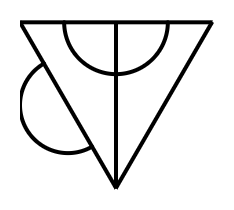
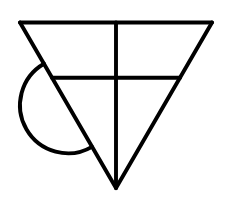
Chart: PanSALB orthography fixes and redrawn clicks and dla
Spellings checked against the nine PanSALB orthography books
(claude/pansalb-consonant-reference_2026-11-03.md in the project),
with Bandile's and Pule's calls of 3-4 November.

Xitsonga: ba [b] and b'a [ɓ]; ha [ɦ] and hha [x], no plain [h];
tsa ejective, tsha aspirated; ca ejective, cha aspirated; tshwa in
the aspirated retroflex affricate; out of [ʒ]; dla [d͡ɮ] for the
voiced lateral affricate, tlha moves to [t͡ɬʰ].
Sotho: qha out of the dental aspirated click; qhala out as an
example word; dza out (no Sotho book has dz).
Venda: swa added to [ʂ].
IPA: p̪fʰ for the aspirated labio-dental affricate; d͡ɮ added.
Cell guide redrawn to match cell 1: ba (Sotho, Tsonga, Venda), bha (Nguni).

Symbols drawn with the Card Builder's copy of the engine (engine
untouched), fitted to the chart's 234x210 box: plain clicks ca, qa,
xa now carry the lerothodi (Pule, 3 Nov); xha takes the bare lateral
click that xa used to show; dla is the tlha symbol plus uphimbo.

Claude-Session: https://claude.ai/code/session_011P8uid3bQGYUjD3t2ytqxX

diff --git a/index.html b/index.html
@@ -1177,15 +1177,15 @@ button.cc-word { cursor:pointer; border-color:#bfdbfe; background:#eff6ff; min-h
             <p class="chart-tap">Tap a symbol to hear its syllable, or a word to hear the word.</p>
             <details class="bg-details chart-key">
               <summary>How to read a cell</summary><!-- TODO: siNtu terms for the labels below -->
-              <svg class="key-svg" viewBox="0 0 360 240" role="img" aria-label="One chart cell, bha, with five labels: the ibheqe, the spelling, the languages that spell it this way, the IPA, and an example word">
+              <svg class="key-svg" viewBox="0 0 360 240" role="img" aria-label="One chart cell, ba, with five labels: the ibheqe, the spelling, the languages that spell it this way, the IPA, and an example word">
                 <defs><marker id="key-ah" viewBox="0 0 8 8" refX="7" refY="4" markerWidth="7" markerHeight="7" orient="auto"><path d="M0,0 L8,4 L0,8 z" fill="#4f46e5"/></marker></defs>
                 <rect x="6" y="6" width="140" height="228" rx="10" fill="#fff" stroke="#e5e7eb"/>
                 <rect x="41" y="14" width="70" height="70" rx="10" fill="#fff" stroke="#c7d2fe"/>
                 <image href="images/Voiced_bilabial_plosive.png" x="49" y="22" width="54" height="54"/>
-                <text x="76" y="108" text-anchor="middle" font-size="17" font-weight="700" fill="#111827">bha</text>
-                <text x="76" y="124" text-anchor="middle" font-size="9" fill="#9ca3af">(Nguni, Sotho, Tsonga)</text>
+                <text x="76" y="108" text-anchor="middle" font-size="17" font-weight="700" fill="#111827">ba</text>
+                <text x="76" y="124" text-anchor="middle" font-size="9" fill="#9ca3af">(Sotho, Tsonga, Venda)</text>
                 <text x="76" y="144" text-anchor="middle" font-size="11" fill="#6b7280">[ba]</text>
-                <text x="76" y="160" text-anchor="middle" font-size="10" fill="#4b5563">ba (Venda)</text>
+                <text x="76" y="160" text-anchor="middle" font-size="10" fill="#4b5563">bha (Nguni)</text>
                 <rect x="20" y="172" width="112" height="44" rx="8" fill="#eff6ff" stroke="#bfdbfe"/>
                 <text x="76" y="190" text-anchor="middle" font-size="11" fill="#1d4ed8" font-weight="700">bhabha &#9654;</text>
                 <text x="76" y="206" text-anchor="middle" font-size="9" fill="#4b5563">trap (Zulu)</text>
@@ -1222,7 +1222,7 @@ button.cc-word { cursor:pointer; border-color:#bfdbfe; background:#eff6ff; min-h
             <!-- Chart data: one entry per cell. m = manner, p = place, v = voiceless/voiced,
                  sp = Latin spelling by language group (kept from the old hover text),
                  words = example words (src R = recorded, M = confirmed in the 9 Oct meeting). -->
-            <script type="application/json" id="chart-data">[{"m":"Plosive","p":"Bilabial","v":"voiceless","img":"images/Aspirated_bilabial_plosive.png","ipa":"pʰ","syl":true,"snd":"audio/cues/Aspirated_bilabial_plosive_a.mp3","sp":{"NGU":"pha","SOT":"pha","TSO":"pha","VEN":"pha"},"words":[{"w":"phapha","hl":"pha","lang":"isiZulu, Sesotho","gloss":"be overenthusiastic","audio":"audio/words/phapha.mp3","src":"R"},{"w":"phalla","hl":"pha","lang":"Sesotho","gloss":"flow","audio":"audio/words/phalla.mp3","src":"R"}]},{"m":"Plosive","p":"Bilabial","v":"voiced","img":"images/Voiced_bilabial_plosive.png","ipa":"b","syl":true,"snd":"audio/cues/Voiced_bilabial_plosive_a.mp3","sp":{"NGU":"bha","SOT":"ba","TSO":"bha","VEN":"ba"},"words":[{"w":"bhabha","hl":"bha","lang":"isiZulu","gloss":"trap","audio":"audio/words/bhabha.mp3","src":"R"},{"w":"bana","hl":"ba","lang":"Sesotho","gloss":"children","audio":"audio/words/bana.mp3","src":"R"}]},{"m":"Plosive","p":"Dental","v":"voiceless","img":"images/Aspirated_dental_plosive.png","ipa":"t̪ʰ","syl":true,"snd":"audio/cues/Aspirated_dental_plosive_a.mp3","sp":{"VEN":"ṱha"},"words":[]},{"m":"Plosive","p":"Dental","v":"voiced","img":"images/Voiced_dental_plosive.png","ipa":"d̪","syl":true,"snd":"audio/cues/Voiced_dental_plosive_a.mp3","sp":{"VEN":"ḓa"},"words":[]},{"m":"Plosive","p":"Alveolar","v":"voiceless","img":"images/Aspirated_alveolar_plosive.png","ipa":"tʰ","syl":true,"snd":"audio/cues/Aspirated_alveolar_plosive_a.mp3","sp":{"NGU":"tha","SOT":"tha","TSO":"tha","VEN":"tha"},"words":[{"w":"thatha","hl":"tha","lang":"isiZulu","gloss":"take","audio":"audio/words/thatha.mp3","src":"R"},{"w":"thaba","hl":"tha","lang":"Sesotho","gloss":"mountain","audio":"audio/words/thaba.mp3","src":"R"}]},{"m":"Plosive","p":"Alveolar","v":"voiced","img":"images/Voiced_alveolar_plosive.png","ipa":"d","syl":true,"snd":"audio/cues/Voiced_alveolar_plosive_a.mp3","sp":{"NGU":"da","SOT":"da, la","TSO":"da","VEN":"da"},"words":[{"w":"idada","hl":"da","lang":"isiZulu","gloss":"duck","audio":"audio/words/idada.mp3","src":"R"}]},{"m":"Plosive","p":"Palatal","v":"voiceless","img":"images/Aspirated_palatal_plosive.png","ipa":"cʰ","syl":true,"snd":"audio/cues/Voiceless_palatal_plosive_a.mp3","sp":{"NGU":"tyha","VEN":"thya"},"words":[]},{"m":"Plosive","p":"Velar","v":"voiceless","img":"images/Aspirated_velar_plosive.png","ipa":"kʰ","syl":true,"snd":"audio/cues/Aspirated_velar_plosive_a.mp3","sp":{"NGU":"kha","SOT":"kha","TSO":"kha","VEN":"kha"},"words":[{"w":"ikhaya","hl":"kha","lang":"isiZulu","gloss":"home","audio":"audio/words/ikhaya.mp3","src":"R"}]},{"m":"Plosive","p":"Velar","v":"voiced","img":"images/Voiced_velar_plosive.png","ipa":"g","syl":true,"snd":"audio/cues/Voiced_velar_plosive_a.mp3","sp":{"NGU":"ga","TSO":"ga","VEN":"ga"},"words":[{"w":"igama","hl":"ga","lang":"isiZulu","gloss":"name","audio":"audio/words/igama.mp3","src":"R"}]},{"m":"Ejectives & Implosive","p":"Bilabial","v":"voiceless","img":"images/Bilabial_ejective_plosive.png","ipa":"pʼ","syl":true,"snd":"audio/cues/Bilabial_ejective_stop_a.mp3","sp":{"NGU":"pa","SOT":"pa","TSO":"pa","VEN":"pa"},"words":[{"w":"papadi","hl":"pa","lang":"Sesotho","gloss":"a game","audio":"audio/words/papadi.mp3","src":"R"}]},{"m":"Ejectives & Implosive","p":"Bilabial","v":"voiced","img":"images/Bilabial_implosive.png","ipa":"ɓ","syl":true,"snd":"audio/cues/Voiced_bilabial_implosive_a.mp3","sp":{"NGU":"ba","TSO":"ba"},"words":[{"w":"baba","hl":"ba","lang":"isiZulu","gloss":"be bitter","audio":"audio/words/baba.mp3","src":"R"}]},{"m":"Ejectives & Implosive","p":"Dental","v":"voiceless","img":"images/Dental_ejective_plosive.png","ipa":"t̪ʼ","syl":true,"snd":"audio/cues/Ejective_dental_stop_a.mp3","sp":{"VEN":"ṱa"},"words":[{"w":"ṱaṱa","hl":"ṱa","lang":"Tshivenda","gloss":"argue","audio":"audio/words/tata_ve.mp3","src":"R"}]},{"m":"Ejectives & Implosive","p":"Alveolar","v":"voiceless","img":"images/Alveolar_ejective_plosive.png","ipa":"tʼ","syl":true,"snd":"audio/cues/Alveolar_ejective_stop_a.mp3","sp":{"NGU":"ta","SOT":"ta","TSO":"ta","VEN":"ta"},"words":[{"w":"tata","hl":"ta","lang":"isiXhosa","gloss":"father","audio":"audio/words/tata_xh.mp3","src":"R"}]},{"m":"Ejectives & Implosive","p":"Velar","v":"voiceless","img":"images/Velar_ejective_plosive.png","ipa":"kʼ","syl":true,"snd":"audio/cues/Velar_ejective_stop_a.mp3","sp":{"NGU":"ka","SOT":"ka","TSO":"ka","VEN":"ka"},"words":[{"w":"ikati","hl":"ka","lang":"isiZulu","gloss":"cat","audio":"audio/words/ikati.mp3","src":"R"},{"w":"kae","hl":"ka","lang":"Sesotho","gloss":"where?","audio":"audio/words/kae.mp3","src":"R"}]},{"m":"Fricative","p":"Bilabial","v":"voiceless","img":"images/Voiceless_bilabial_fricative.png","ipa":"ɸ","syl":true,"snd":"audio/cues/Voiceless_bilabial_fricative_a.mp3","sp":{"VEN":"fha"},"words":[]},{"m":"Fricative","p":"Bilabial","v":"voiced","img":"images/Voiced_bilabial_fricative.png","ipa":"β","syl":true,"snd":"audio/cues/Voiced_bilabial_fricative_a.mp3","sp":{"VEN":"vha"},"words":[]},{"m":"Fricative","p":"Labio-dental","v":"voiceless","img":"images/Voiceless_labiodental_fricative.png","ipa":"f","syl":true,"snd":"audio/cues/Voiceless_labiodental_fricative_a.mp3","sp":{"NGU":"fa","SOT":"fa","TSO":"fa","VEN":"fa"},"words":[{"w":"ukufa","hl":"fa","lang":"isiZulu","gloss":"die","audio":"audio/words/ukufa.mp3","src":"R"}]},{"m":"Fricative","p":"Labio-dental","v":"voiced","img":"images/Voiced_labiodental_fricative.png","ipa":"v","syl":true,"snd":"audio/cues/Voiced_labiodental_fricative_a.mp3","sp":{"NGU":"va","SOT":"va","VEN":"va"},"words":[{"w":"vala","hl":"va","lang":"isiZulu","gloss":"close","audio":"audio/words/vala.mp3","src":"R"}]},{"m":"Fricative","p":"Alveolar","v":"voiceless","img":"images/Voiceless_alveolar_fricative.png","ipa":"s","syl":true,"snd":"audio/cues/Voiceless_alveolar_fricative_a.mp3","sp":{"NGU":"sa","SOT":"sa","TSO":"sa","VEN":"sa"},"words":[{"w":"sapha","hl":"sa","lang":"isiXhosa","gloss":"hand over","audio":"audio/words/sapha.mp3","src":"R"},{"w":"sala","hl":"sa","lang":"Sesotho","gloss":"stay","audio":"audio/words/sala.mp3","src":"R"}]},{"m":"Fricative","p":"Alveolar","v":"voiced","img":"images/Voiced_alveolar_fricative.png","ipa":"z","syl":true,"snd":"audio/cues/Voiced_alveolar_fricative_a.mp3","sp":{"NGU":"za","SOT":"za","TSO":"za","VEN":"za"},"words":[{"w":"zala","hl":"za","lang":"isiZulu","gloss":"give birth","audio":"audio/words/zala.mp3","src":"R"}]},{"m":"Fricative","p":"Post-alveolar","v":"voiceless","img":"images/Voiceless_postalveolar_fricative.png","ipa":"ʃ","syl":true,"snd":"audio/cues/Voiceless_post-alveolar_fricative_a.mp3","sp":{"NGU":"sha","SOT":"sha","TSO":"xa","VEN":"sha"},"words":[{"w":"xava","hl":"xa","lang":"Xitsonga","gloss":"buy","audio":"audio/words/xava.mp3","src":"R"},{"w":"shaya","hl":"sha","lang":"isiZulu","gloss":"hit","audio":"audio/words/shaya.mp3","src":"R"},{"w":"shapa","hl":"sha","lang":"Sesotho","gloss":"hit","audio":"audio/words/shapa.mp3","src":"R"}]},{"m":"Fricative","p":"Post-alveolar","v":"voiced","img":"images/Voiced_postalveolar_fricative.png","ipa":"ʒ","syl":true,"snd":"audio/cues/Voiced_post-alveolar_fricative_a.mp3","sp":{"SOT":"ja","TSO":"ja","VEN":"zha"},"words":[{"w":"jala","hl":"ja","lang":"Sesotho","gloss":"plant, sow","audio":"audio/words/jala.mp3","src":"R"}]},{"m":"Fricative","p":"Retroflex","v":"voiceless","img":"images/Voiceless_retroflex_fricative.png","ipa":"ʂ","syl":true,"snd":"audio/cues/Voiceless_retroflex_fricative_a.mp3","sp":{"TSO":"swa"},"words":[]},{"m":"Fricative","p":"Velar","v":"voiceless","img":"images/Voiceless_velar_fricative.png","ipa":"x","syl":true,"snd":"audio/cues/Voiceless_velar_fricative_a.mp3","sp":{"NGU":"rha","SOT":"ga"},"words":[]},{"m":"Fricative","p":"Velar","v":"voiced","img":"images/Voiced_velar_fricative.png","ipa":"ɣ","syl":true,"snd":"audio/cues/Voiced_velar_fricative_a.mp3","sp":{"NGU":"gra","VEN":"xa"},"words":[]},{"m":"Fricative","p":"Glottal","v":"voiceless","img":"images/Voiceless_glottal_fricative.png","ipa":"h","syl":true,"snd":"audio/cues/Voiceless_glottal_fricative_a.mp3","sp":{"NGU":"ha","SOT":"ha","TSO":"ha","VEN":"ha"},"words":[{"w":"hamba","hl":"ha","lang":"isiZulu","gloss":"go","audio":"audio/words/hamba.mp3","src":"R"},{"w":"hana","hl":"ha","lang":"Sesotho","gloss":"refuse","audio":"audio/words/hana.mp3","src":"R"}]},{"m":"Fricative","p":"Glottal","v":"voiced","img":"images/Voiced_glottal_fricative.png","ipa":"ɦ","syl":true,"snd":"audio/cues/Voiced_glottal_fricative_a.mp3","sp":{"NGU":"hha","SOT":"ha","TSO":"hha"},"words":[{"w":"hhayi","hl":"hha","lang":"isiZulu","gloss":"no","audio":"audio/words/hhayi.mp3","src":"R"}]},{"m":"Fricative","p":"Lateral","v":"voiceless","img":"images/Voiceless_lateral_fricative.png","ipa":"ɬ","syl":true,"snd":"audio/cues/Voiceless_lateral_fricative_a.mp3","sp":{"NGU":"hla","SOT":"hla","TSO":"hla"},"words":[{"w":"hlala","hl":"hla","lang":"isiZulu","gloss":"sit","audio":"audio/words/hlala.mp3","src":"R"},{"w":"hlaha","hl":"hla","lang":"Sesotho","gloss":"appear","audio":"audio/words/hlaha.mp3","src":"R"},{"w":"hlapa","hl":"hla","lang":"Sesotho","gloss":"wash oneself","audio":"audio/words/hlapa.mp3","src":"R"}]},{"m":"Fricative","p":"Lateral","v":"voiced","img":"images/Voiced_lateral_fricative.png","ipa":"ɮ","syl":true,"snd":"audio/cues/Voiced_lateral_fricative_a.mp3","sp":{"NGU":"dla"},"words":[{"w":"ukudla","hl":"dla","lang":"isiZulu","gloss":"food","audio":"audio/words/ukudla.mp3","src":"R"}]},{"m":"Affricate","p":"Labio-dental","v":"voiceless","img":"images/Aspirated_labiodental_affricate.png","ipa":"pf","syl":true,"snd":"audio/cues/Voiceless_labiodental_affricate_a.mp3","sp":{"TSO":"pfha","VEN":"pfha"},"words":[]},{"m":"Affricate","p":"Labio-dental","v":"voiced","img":"images/Voiced_labiodental_affricate.png","ipa":"bv","syl":true,"snd":"audio/cues/Voiced_labiodental_affricate_a.mp3","sp":{"TSO":"bva","VEN":"bva"},"words":[]},{"m":"Affricate","p":"Alveolar","v":"voiceless","img":"images/Aspirated_alveolar_affricate.png","ipa":"tsʰ","syl":true,"snd":null,"sp":{"NGU":"thsa","SOT":"tsha","TSO":"tsa"},"words":[]},{"m":"Affricate","p":"Alveolar","v":"voiced","img":"images/Voiced_alveolar_affricate.png","ipa":"dz","syl":true,"snd":"audio/cues/Voiced_alveolar_affricate_a.mp3","sp":{"NGU":"dza","SOT":"dza","TSO":"dza","VEN":"dza"},"words":[]},{"m":"Affricate","p":"Post-alveolar","v":"voiceless","img":"images/Aspirated_postalveolar_affricate.png","ipa":"t͡ʃʰ","syl":true,"snd":null,"sp":{"SOT":"tjha","TSO":"ca","VEN":"tsha"},"words":[{"w":"tjhaba","hl":"tjha","lang":"Sesotho","gloss":"rise (of the sun)","audio":"audio/words/tjhaba.mp3","src":"R"}]},{"m":"Affricate","p":"Post-alveolar","v":"voiced","img":"images/Voiced_postalveolar_affricate.png","ipa":"d͡ʒ","syl":true,"snd":"audio/cues/Voiced_post-alveolar_affricate_a.mp3","sp":{"NGU":"ja","SOT":"ja","TSO":"ja","VEN":"dzha"},"words":[{"w":"jabula","hl":"ja","lang":"isiZulu","gloss":"be happy","audio":"audio/words/jabula.mp3","src":"R"}]},{"m":"Affricate","p":"Retroflex","v":"voiceless","img":"images/Aspirated_retroflex_affricate.png","ipa":"t͡ʂʰ","syl":true,"snd":"audio/cues/Aspirated_retroflex_affricate_a.mp3","sp":{"TSO":"tswa"},"words":[]},{"m":"Affricate","p":"Velar","v":"voiceless","img":"images/Aspirated_velar_affricate.png","ipa":"k͡xʰ","syl":true,"snd":"audio/Voiceless_velar_affricate.ogg","sp":{"SOT":"kga"},"words":[{"w":"kgale","hl":"kga","lang":"Sesotho","gloss":"long ago","audio":"audio/words/kgale.mp3","src":"R"}]},{"m":"Affricate","p":"Lateral","v":"voiceless","img":"images/Aspirated_lateral_affricate.png","ipa":"t͡ɬʰ","syl":true,"snd":"audio/cues/Aspirated_lateral_affricate_a.mp3","sp":{"SOT":"tlha"},"words":[{"w":"tlhapi","hl":"tlha","lang":"Sesotho","gloss":"fish","audio":"audio/words/tlhapi.mp3","src":"R"}]},{"m":"Affricate","p":"Lateral","v":"voiced","img":"images/Voiced_lateral_affricate.png","ipa":"","syl":false,"snd":null,"sp":{"TSO":"tlha"},"words":[]},{"m":"Approximant","p":"Bilabial","v":"voiced","img":"images/Voiced_labial–velar_approximant.png","ipa":"w","syl":true,"snd":"audio/cues/Labial_velar_approximant_a.mp3","sp":{"NGU":"wa","SOT":"wa","TSO":"wa","VEN":"wa"},"words":[{"w":"ukuwa","hl":"wa","lang":"isiZulu","gloss":"fall","audio":"audio/words/ukuwa.mp3","src":"R"},{"w":"ho wa","hl":"wa","lang":"Sesotho","gloss":"fall","audio":"audio/words/wa_st.mp3","src":"R"}]},{"m":"Approximant","p":"Palatal","v":"voiced","img":"images/Voiced_palatal_approximant.png","ipa":"j","syl":true,"snd":"audio/cues/Palatal_approximant_a.mp3","sp":{"NGU":"ya","SOT":"ya","TSO":"ya","VEN":"ya"},"words":[{"w":"ho ya","hl":"ya","lang":"Sesotho","gloss":"go","audio":"audio/words/ya_st.mp3","src":"R"}]},{"m":"Approximant","p":"Lateral","v":"voiced","img":"images/Voiced_lateral_approximant.png","ipa":"l","syl":true,"snd":"audio/cues/Lateral_approximant_a.mp3","sp":{"NGU":"la","SOT":"la","TSO":"la"},"words":[{"w":"lala","hl":"la","lang":"isiZulu","gloss":"sleep","audio":"audio/words/lala.mp3","src":"R"},{"w":"lelapa","hl":"la","lang":"Sesotho","gloss":"family","audio":"audio/words/lelapa.mp3","src":"R"}]},{"m":"Trill","p":"Alveolar","v":"voiced","img":"images/Voiced_alveolar_trill.png","ipa":"r","syl":true,"snd":"audio/cues/Alveolar_trill_a.mp3","sp":{"NGU":"ra","SOT":"ra","TSO":"ra","VEN":"ra"},"words":[{"w":"rara","hl":"ra","lang":"Sesotho","gloss":"be entangled","audio":"audio/words/rara.mp3","src":"R"}]},{"m":"Tap or Flap","p":"Retroflex","v":"voiced","img":"images/Voiced_retroflex_tap.png","ipa":"ɽ","syl":true,"snd":"audio/cues/Retroflex_tap_a.mp3","sp":{"VEN":"la"},"words":[]},{"m":"Aspirated clicks","p":"Bilabial","v":"voiceless","img":"images/Bilabial click.png","ipa":"ʘʰ","syl":true,"snd":"audio/Bilabial_click.mp3","sp":{},"words":[]},{"m":"Aspirated clicks","p":"Dental","v":"voiceless","img":"images/Voiceless_dental_click.png","ipa":"ǀʰ","syl":true,"snd":"audio/words/cha.mp3","sp":{"NGU":"cha","SOT":"qha"},"words":[{"w":"cha","hl":"cha","lang":"isiZulu","gloss":"no","audio":"audio/words/cha.mp3","src":"R"}]},{"m":"Aspirated clicks","p":"Alveolar","v":"voiceless","img":"images/Voiceless_alveolar_click.png","ipa":"ǃʰ","syl":true,"snd":"audio/cues/Aspirated_alveolar_click_a.mp3","sp":{"NGU":"qha"},"words":[{"w":"qhaqha","hl":"qha","lang":"isiZulu","gloss":"dismantle","audio":"audio/words/qhaqha.mp3","src":"R"},{"w":"qhala","hl":"qha","lang":"Sesotho","gloss":"scatter","audio":"audio/words/qhala.mp3","src":"R"}]},{"m":"Aspirated clicks","p":"Palatal","v":"voiceless","img":"images/Palatal_Click.png","ipa":"ǂʰ","syl":true,"snd":"audio/Palatal_click.ogg","sp":{},"words":[]},{"m":"Aspirated clicks","p":"Lateral","v":"voiceless","img":"images/Aspirated_lateral_click.svg.png","ipa":"ǁʰ","syl":true,"snd":"audio/cues/Aspirated_lateral_click_a.mp3","sp":{"NGU":"xha"},"words":[]},{"m":"Nasal","p":"Bilabial","v":"voiced","img":"images/Voiced_bilabial_nasal.png","ipa":"m","syl":true,"snd":"audio/cues/Voiced_bilabial_nasal_a.mp3","sp":{"NGU":"ma","SOT":"ma","TSO":"ma","VEN":"ma"},"words":[{"w":"mama","hl":"ma","lang":"isiZulu, Sesotho","gloss":"mother","audio":"audio/words/mama.mp3","src":"R"}]},{"m":"Nasal","p":"Dental","v":"voiced","img":"images/Voiced_dental_nasal.png","ipa":"n̪","syl":true,"snd":"audio/cues/Voiced_dental_nasal_a.mp3","sp":{"VEN":"ṋa"},"words":[]},{"m":"Nasal","p":"Alveolar","v":"voiced","img":"images/Voiced_alveolar_nasal.png","ipa":"n","syl":true,"snd":"audio/cues/Voiced_alveolar_nasal_a.mp3","sp":{"NGU":"na","SOT":"na","TSO":"na","VEN":"na"},"words":[{"w":"nana","hl":"na","lang":"isiXhosa","gloss":"child","audio":"audio/words/nana.mp3","src":"R"},{"w":"naha","hl":"na","lang":"Sesotho","gloss":"country","audio":"audio/words/naha.mp3","src":"R"}]},{"m":"Nasal","p":"Palatal","v":"voiced","img":"images/Voiced_palatal_nasal.png","ipa":"ɲ","syl":true,"snd":"audio/cues/Voiced_palatal_nasal_a.mp3","sp":{"NGU":"nya","SOT":"nya","TSO":"nya","VEN":"nya"},"words":[{"w":"nyanya","hl":"nya","lang":"isiZulu","gloss":"loathe","audio":"audio/words/nyanya.mp3","src":"R"},{"w":"nyala","hl":"nya","lang":"Sesotho","gloss":"marry","audio":"audio/words/nyala.mp3","src":"R"}]},{"m":"Nasal","p":"Velar","v":"voiced","img":"images/Voiced_velar_nasal.png","ipa":"ŋ","syl":true,"snd":"audio/cues/Voiced_velar_nasal_a.mp3","sp":{"NGU":"ng'a","SOT":"nga","TSO":"n'a","VEN":"ṅa"},"words":[{"w":"ngaka","hl":"nga","lang":"Sesotho","gloss":"doctor","audio":"audio/words/ngaka.mp3","src":"R"}]},{"m":"Syllabic Nasal","p":"Bilabial","v":"voiced","img":"images/Syllabic_bilabial_nasal.png","ipa":"m̩","syl":false,"snd":"audio/cues/Syllabic_bilabial_nasal.mp3","sp":{"SOT":"mma"},"words":[{"w":"mme","hl":"m","lang":"Sesotho","gloss":"mother","audio":"audio/words/mme.mp3","src":"R"}]},{"m":"Syllabic Nasal","p":"Alveolar","v":"voiced","img":"images/Syllabic_alveolar_nasal.png","ipa":"n̩","syl":false,"snd":"audio/cues/Syllabic_alveolar_nasal.mp3","sp":{"SOT":"nna"},"words":[{"w":"nna","hl":"n","lang":"Sesotho","gloss":"I, me","audio":"audio/words/nna.mp3","src":"R"}]},{"m":"Syllabic Nasal","p":"Velar","v":"voiced","img":"images/Syllabic_palatal_nasal.png","ipa":"ŋ̍","syl":false,"snd":null,"sp":{"SOT":"ng"},"words":[{"w":"emang","hl":"ng","lang":"Sesotho","gloss":"stand (all of you)","audio":"audio/words/emang.mp3","src":"R"}]},{"m":"Syllabic Approximants & Trills","p":"Alveolar","v":"voiced","img":"images/Syllabic_alveolar_trill.png","ipa":"r̩","syl":false,"snd":"audio/cues/Alveolar_syllabic_trill_a.mp3","sp":{"SOT":"rra"},"words":[{"w":"rra","hl":"rr","lang":"Sesotho","gloss":"father","audio":"audio/words/rra.mp3","src":"R"}]},{"m":"Syllabic Approximants & Trills","p":"Lateral","v":"voiced","img":"images/Syllabic_lateral_approximant.png","ipa":"l̩","syl":false,"snd":"audio/cues/Syllabic_lateral.mp3","sp":{"SOT":"lla"},"words":[{"w":"lla","hl":"l","lang":"Sesotho","gloss":"cry","audio":"audio/words/lla.mp3","src":"R"}]},{"m":"Ejective affricates","p":"Alveolar","v":"voiceless","img":null,"ipa":"tsʼ","syl":true,"snd":"audio/cues/Ejective_alveolar_affricate_a.mp3","sp":{"NGU":"tsa","SOT":"tsa","VEN":"tsa"},"words":[{"w":"tsatsa","hl":"tsa","lang":"siSwati","gloss":"take","audio":"audio/words/tsatsa.mp3","src":"R"},{"w":"tsamaya","hl":"tsa","lang":"Sesotho","gloss":"walk","audio":"audio/words/tsamaya.mp3","src":"R"}]},{"m":"Ejective affricates","p":"Post-alveolar","v":"voiceless","img":null,"ipa":"t͡ʃʼ","syl":true,"snd":"audio/cues/Ejective_post-alveolar_affricate_a.mp3","sp":{"NGU":"tsha","SOT":"tja"},"words":[{"w":"tshala","hl":"tsha","lang":"isiZulu","gloss":"plant","audio":"audio/words/tshala.mp3","src":"R"},{"w":"intsha","hl":"tsha","lang":"isiZulu","gloss":"youth","audio":"audio/words/intsha.mp3","src":"R"}]},{"m":"Ejective affricates","p":"Velar","v":"voiceless","img":null,"ipa":"k͡xʼ","syl":true,"snd":"audio/cues/kla_v1.mp3","sp":{"NGU":"kla"},"words":[]},{"m":"Ejective affricates","p":"Lateral","v":"voiceless","img":null,"ipa":"t͡ɬʼ","syl":true,"snd":"audio/cues/Ejective_lateral_affricate_a.mp3","sp":{"SOT":"tla"},"words":[{"w":"tlala","hl":"tla","lang":"Sesotho","gloss":"hunger","audio":"audio/words/tlala.mp3","src":"R"}]},{"m":"Clicks","p":"Dental","v":"voiceless","img":"images/Voiceless_dental_click.png","ipa":"ǀ","syl":true,"snd":"audio/cues/Dental_click_a.mp3","sp":{"NGU":"ca"},"words":[]},{"m":"Clicks","p":"Dental","v":"voiced","img":null,"ipa":"ᶢǀ","syl":true,"snd":"audio/cues/Voiced_dental_click_a.mp3","sp":{"NGU":"gca"},"words":[]},{"m":"Clicks","p":"Alveolar","v":"voiceless","img":"images/Voiceless_alveolar_click.png","ipa":"ǃ","syl":true,"snd":"audio/cues/Alveolar_click_a.mp3","sp":{"NGU":"qa"},"words":[]},{"m":"Clicks","p":"Alveolar","v":"voiced","img":null,"ipa":"ᶢǃ","syl":true,"snd":"audio/cues/Voiced_alveolar_click_a.mp3","sp":{"NGU":"gqa"},"words":[]},{"m":"Clicks","p":"Lateral","v":"voiceless","img":"images/Voiceless_lateral_click.png","ipa":"ǁ","syl":true,"snd":"audio/cues/Lateral_click_a.mp3","sp":{"NGU":"xa"},"words":[{"w":"ukuxabana","hl":"xa","lang":"isiZulu","gloss":"quarrel","audio":"audio/words/ukuxabana.mp3","src":"R"}]},{"m":"Clicks","p":"Lateral","v":"voiced","img":null,"ipa":"ᶢǁ","syl":true,"snd":"audio/cues/Voiced_lateral_click_a.mp3","sp":{"NGU":"gxa"},"words":[]}]</script>
+            <script type="application/json" id="chart-data">[{"m":"Plosive","p":"Bilabial","v":"voiceless","img":"images/Aspirated_bilabial_plosive.png","ipa":"pʰ","syl":true,"snd":"audio/cues/Aspirated_bilabial_plosive_a.mp3","sp":{"NGU":"pha","SOT":"pha","TSO":"pha","VEN":"pha"},"words":[{"w":"phapha","hl":"pha","lang":"isiZulu, Sesotho","gloss":"be overenthusiastic","audio":"audio/words/phapha.mp3","src":"R"},{"w":"phalla","hl":"pha","lang":"Sesotho","gloss":"flow","audio":"audio/words/phalla.mp3","src":"R"}]},{"m":"Plosive","p":"Bilabial","v":"voiced","img":"images/Voiced_bilabial_plosive.png","ipa":"b","syl":true,"snd":"audio/cues/Voiced_bilabial_plosive_a.mp3","sp":{"NGU":"bha","SOT":"ba","TSO":"ba","VEN":"ba"},"words":[{"w":"bhabha","hl":"bha","lang":"isiZulu","gloss":"trap","audio":"audio/words/bhabha.mp3","src":"R"},{"w":"bana","hl":"ba","lang":"Sesotho","gloss":"children","audio":"audio/words/bana.mp3","src":"R"}]},{"m":"Plosive","p":"Dental","v":"voiceless","img":"images/Aspirated_dental_plosive.png","ipa":"t̪ʰ","syl":true,"snd":"audio/cues/Aspirated_dental_plosive_a.mp3","sp":{"VEN":"ṱha"},"words":[]},{"m":"Plosive","p":"Dental","v":"voiced","img":"images/Voiced_dental_plosive.png","ipa":"d̪","syl":true,"snd":"audio/cues/Voiced_dental_plosive_a.mp3","sp":{"VEN":"ḓa"},"words":[]},{"m":"Plosive","p":"Alveolar","v":"voiceless","img":"images/Aspirated_alveolar_plosive.png","ipa":"tʰ","syl":true,"snd":"audio/cues/Aspirated_alveolar_plosive_a.mp3","sp":{"NGU":"tha","SOT":"tha","TSO":"tha","VEN":"tha"},"words":[{"w":"thatha","hl":"tha","lang":"isiZulu","gloss":"take","audio":"audio/words/thatha.mp3","src":"R"},{"w":"thaba","hl":"tha","lang":"Sesotho","gloss":"mountain","audio":"audio/words/thaba.mp3","src":"R"}]},{"m":"Plosive","p":"Alveolar","v":"voiced","img":"images/Voiced_alveolar_plosive.png","ipa":"d","syl":true,"snd":"audio/cues/Voiced_alveolar_plosive_a.mp3","sp":{"NGU":"da","SOT":"da, la","TSO":"da","VEN":"da"},"words":[{"w":"idada","hl":"da","lang":"isiZulu","gloss":"duck","audio":"audio/words/idada.mp3","src":"R"}]},{"m":"Plosive","p":"Palatal","v":"voiceless","img":"images/Aspirated_palatal_plosive.png","ipa":"cʰ","syl":true,"snd":"audio/cues/Voiceless_palatal_plosive_a.mp3","sp":{"NGU":"tyha","VEN":"thya"},"words":[]},{"m":"Plosive","p":"Velar","v":"voiceless","img":"images/Aspirated_velar_plosive.png","ipa":"kʰ","syl":true,"snd":"audio/cues/Aspirated_velar_plosive_a.mp3","sp":{"NGU":"kha","SOT":"kha","TSO":"kha","VEN":"kha"},"words":[{"w":"ikhaya","hl":"kha","lang":"isiZulu","gloss":"home","audio":"audio/words/ikhaya.mp3","src":"R"}]},{"m":"Plosive","p":"Velar","v":"voiced","img":"images/Voiced_velar_plosive.png","ipa":"g","syl":true,"snd":"audio/cues/Voiced_velar_plosive_a.mp3","sp":{"NGU":"ga","TSO":"ga","VEN":"ga"},"words":[{"w":"igama","hl":"ga","lang":"isiZulu","gloss":"name","audio":"audio/words/igama.mp3","src":"R"}]},{"m":"Ejectives & Implosive","p":"Bilabial","v":"voiceless","img":"images/Bilabial_ejective_plosive.png","ipa":"pʼ","syl":true,"snd":"audio/cues/Bilabial_ejective_stop_a.mp3","sp":{"NGU":"pa","SOT":"pa","TSO":"pa","VEN":"pa"},"words":[{"w":"papadi","hl":"pa","lang":"Sesotho","gloss":"a game","audio":"audio/words/papadi.mp3","src":"R"}]},{"m":"Ejectives & Implosive","p":"Bilabial","v":"voiced","img":"images/Bilabial_implosive.png","ipa":"ɓ","syl":true,"snd":"audio/cues/Voiced_bilabial_implosive_a.mp3","sp":{"NGU":"ba","TSO":"b'a"},"words":[{"w":"baba","hl":"ba","lang":"isiZulu","gloss":"be bitter","audio":"audio/words/baba.mp3","src":"R"}]},{"m":"Ejectives & Implosive","p":"Dental","v":"voiceless","img":"images/Dental_ejective_plosive.png","ipa":"t̪ʼ","syl":true,"snd":"audio/cues/Ejective_dental_stop_a.mp3","sp":{"VEN":"ṱa"},"words":[{"w":"ṱaṱa","hl":"ṱa","lang":"Tshivenda","gloss":"argue","audio":"audio/words/tata_ve.mp3","src":"R"}]},{"m":"Ejectives & Implosive","p":"Alveolar","v":"voiceless","img":"images/Alveolar_ejective_plosive.png","ipa":"tʼ","syl":true,"snd":"audio/cues/Alveolar_ejective_stop_a.mp3","sp":{"NGU":"ta","SOT":"ta","TSO":"ta","VEN":"ta"},"words":[{"w":"tata","hl":"ta","lang":"isiXhosa","gloss":"father","audio":"audio/words/tata_xh.mp3","src":"R"}]},{"m":"Ejectives & Implosive","p":"Velar","v":"voiceless","img":"images/Velar_ejective_plosive.png","ipa":"kʼ","syl":true,"snd":"audio/cues/Velar_ejective_stop_a.mp3","sp":{"NGU":"ka","SOT":"ka","TSO":"ka","VEN":"ka"},"words":[{"w":"ikati","hl":"ka","lang":"isiZulu","gloss":"cat","audio":"audio/words/ikati.mp3","src":"R"},{"w":"kae","hl":"ka","lang":"Sesotho","gloss":"where?","audio":"audio/words/kae.mp3","src":"R"}]},{"m":"Fricative","p":"Bilabial","v":"voiceless","img":"images/Voiceless_bilabial_fricative.png","ipa":"ɸ","syl":true,"snd":"audio/cues/Voiceless_bilabial_fricative_a.mp3","sp":{"VEN":"fha"},"words":[]},{"m":"Fricative","p":"Bilabial","v":"voiced","img":"images/Voiced_bilabial_fricative.png","ipa":"β","syl":true,"snd":"audio/cues/Voiced_bilabial_fricative_a.mp3","sp":{"VEN":"vha"},"words":[]},{"m":"Fricative","p":"Labio-dental","v":"voiceless","img":"images/Voiceless_labiodental_fricative.png","ipa":"f","syl":true,"snd":"audio/cues/Voiceless_labiodental_fricative_a.mp3","sp":{"NGU":"fa","SOT":"fa","TSO":"fa","VEN":"fa"},"words":[{"w":"ukufa","hl":"fa","lang":"isiZulu","gloss":"die","audio":"audio/words/ukufa.mp3","src":"R"}]},{"m":"Fricative","p":"Labio-dental","v":"voiced","img":"images/Voiced_labiodental_fricative.png","ipa":"v","syl":true,"snd":"audio/cues/Voiced_labiodental_fricative_a.mp3","sp":{"NGU":"va","SOT":"va","VEN":"va"},"words":[{"w":"vala","hl":"va","lang":"isiZulu","gloss":"close","audio":"audio/words/vala.mp3","src":"R"}]},{"m":"Fricative","p":"Alveolar","v":"voiceless","img":"images/Voiceless_alveolar_fricative.png","ipa":"s","syl":true,"snd":"audio/cues/Voiceless_alveolar_fricative_a.mp3","sp":{"NGU":"sa","SOT":"sa","TSO":"sa","VEN":"sa"},"words":[{"w":"sapha","hl":"sa","lang":"isiXhosa","gloss":"hand over","audio":"audio/words/sapha.mp3","src":"R"},{"w":"sala","hl":"sa","lang":"Sesotho","gloss":"stay","audio":"audio/words/sala.mp3","src":"R"}]},{"m":"Fricative","p":"Alveolar","v":"voiced","img":"images/Voiced_alveolar_fricative.png","ipa":"z","syl":true,"snd":"audio/cues/Voiced_alveolar_fricative_a.mp3","sp":{"NGU":"za","SOT":"za","TSO":"za","VEN":"za"},"words":[{"w":"zala","hl":"za","lang":"isiZulu","gloss":"give birth","audio":"audio/words/zala.mp3","src":"R"}]},{"m":"Fricative","p":"Post-alveolar","v":"voiceless","img":"images/Voiceless_postalveolar_fricative.png","ipa":"ʃ","syl":true,"snd":"audio/cues/Voiceless_post-alveolar_fricative_a.mp3","sp":{"NGU":"sha","SOT":"sha","TSO":"xa","VEN":"sha"},"words":[{"w":"xava","hl":"xa","lang":"Xitsonga","gloss":"buy","audio":"audio/words/xava.mp3","src":"R"},{"w":"shaya","hl":"sha","lang":"isiZulu","gloss":"hit","audio":"audio/words/shaya.mp3","src":"R"},{"w":"shapa","hl":"sha","lang":"Sesotho","gloss":"hit","audio":"audio/words/shapa.mp3","src":"R"}]},{"m":"Fricative","p":"Post-alveolar","v":"voiced","img":"images/Voiced_postalveolar_fricative.png","ipa":"ʒ","syl":true,"snd":"audio/cues/Voiced_post-alveolar_fricative_a.mp3","sp":{"SOT":"ja","VEN":"zha"},"words":[{"w":"jala","hl":"ja","lang":"Sesotho","gloss":"plant, sow","audio":"audio/words/jala.mp3","src":"R"}]},{"m":"Fricative","p":"Retroflex","v":"voiceless","img":"images/Voiceless_retroflex_fricative.png","ipa":"ʂ","syl":true,"snd":"audio/cues/Voiceless_retroflex_fricative_a.mp3","sp":{"TSO":"swa","VEN":"swa"},"words":[]},{"m":"Fricative","p":"Velar","v":"voiceless","img":"images/Voiceless_velar_fricative.png","ipa":"x","syl":true,"snd":"audio/cues/Voiceless_velar_fricative_a.mp3","sp":{"NGU":"rha","SOT":"ga","TSO":"hha"},"words":[]},{"m":"Fricative","p":"Velar","v":"voiced","img":"images/Voiced_velar_fricative.png","ipa":"ɣ","syl":true,"snd":"audio/cues/Voiced_velar_fricative_a.mp3","sp":{"NGU":"gra","VEN":"xa"},"words":[]},{"m":"Fricative","p":"Glottal","v":"voiceless","img":"images/Voiceless_glottal_fricative.png","ipa":"h","syl":true,"snd":"audio/cues/Voiceless_glottal_fricative_a.mp3","sp":{"NGU":"ha","SOT":"ha","VEN":"ha"},"words":[{"w":"hamba","hl":"ha","lang":"isiZulu","gloss":"go","audio":"audio/words/hamba.mp3","src":"R"},{"w":"hana","hl":"ha","lang":"Sesotho","gloss":"refuse","audio":"audio/words/hana.mp3","src":"R"}]},{"m":"Fricative","p":"Glottal","v":"voiced","img":"images/Voiced_glottal_fricative.png","ipa":"ɦ","syl":true,"snd":"audio/cues/Voiced_glottal_fricative_a.mp3","sp":{"NGU":"hha","SOT":"ha","TSO":"ha"},"words":[{"w":"hhayi","hl":"hha","lang":"isiZulu","gloss":"no","audio":"audio/words/hhayi.mp3","src":"R"}]},{"m":"Fricative","p":"Lateral","v":"voiceless","img":"images/Voiceless_lateral_fricative.png","ipa":"ɬ","syl":true,"snd":"audio/cues/Voiceless_lateral_fricative_a.mp3","sp":{"NGU":"hla","SOT":"hla","TSO":"hla"},"words":[{"w":"hlala","hl":"hla","lang":"isiZulu","gloss":"sit","audio":"audio/words/hlala.mp3","src":"R"},{"w":"hlaha","hl":"hla","lang":"Sesotho","gloss":"appear","audio":"audio/words/hlaha.mp3","src":"R"},{"w":"hlapa","hl":"hla","lang":"Sesotho","gloss":"wash oneself","audio":"audio/words/hlapa.mp3","src":"R"}]},{"m":"Fricative","p":"Lateral","v":"voiced","img":"images/Voiced_lateral_fricative.png","ipa":"ɮ","syl":true,"snd":"audio/cues/Voiced_lateral_fricative_a.mp3","sp":{"NGU":"dla"},"words":[{"w":"ukudla","hl":"dla","lang":"isiZulu","gloss":"food","audio":"audio/words/ukudla.mp3","src":"R"}]},{"m":"Affricate","p":"Labio-dental","v":"voiceless","img":"images/Aspirated_labiodental_affricate.png","ipa":"p̪fʰ","syl":true,"snd":"audio/cues/Voiceless_labiodental_affricate_a.mp3","sp":{"TSO":"pfha","VEN":"pfha"},"words":[]},{"m":"Affricate","p":"Labio-dental","v":"voiced","img":"images/Voiced_labiodental_affricate.png","ipa":"bv","syl":true,"snd":"audio/cues/Voiced_labiodental_affricate_a.mp3","sp":{"TSO":"bva","VEN":"bva"},"words":[]},{"m":"Affricate","p":"Alveolar","v":"voiceless","img":"images/Aspirated_alveolar_affricate.png","ipa":"tsʰ","syl":true,"snd":null,"sp":{"NGU":"thsa","SOT":"tsha","TSO":"tsha"},"words":[]},{"m":"Affricate","p":"Alveolar","v":"voiced","img":"images/Voiced_alveolar_affricate.png","ipa":"dz","syl":true,"snd":"audio/cues/Voiced_alveolar_affricate_a.mp3","sp":{"NGU":"dza","TSO":"dza","VEN":"dza"},"words":[]},{"m":"Affricate","p":"Post-alveolar","v":"voiceless","img":"images/Aspirated_postalveolar_affricate.png","ipa":"t͡ʃʰ","syl":true,"snd":null,"sp":{"SOT":"tjha","TSO":"cha","VEN":"tsha"},"words":[{"w":"tjhaba","hl":"tjha","lang":"Sesotho","gloss":"rise (of the sun)","audio":"audio/words/tjhaba.mp3","src":"R"}]},{"m":"Affricate","p":"Post-alveolar","v":"voiced","img":"images/Voiced_postalveolar_affricate.png","ipa":"d͡ʒ","syl":true,"snd":"audio/cues/Voiced_post-alveolar_affricate_a.mp3","sp":{"NGU":"ja","SOT":"ja","TSO":"ja","VEN":"dzha"},"words":[{"w":"jabula","hl":"ja","lang":"isiZulu","gloss":"be happy","audio":"audio/words/jabula.mp3","src":"R"}]},{"m":"Affricate","p":"Retroflex","v":"voiceless","img":"images/Aspirated_retroflex_affricate.png","ipa":"t͡ʂʰ","syl":true,"snd":"audio/cues/Aspirated_retroflex_affricate_a.mp3","sp":{"TSO":"tshwa"},"words":[]},{"m":"Affricate","p":"Velar","v":"voiceless","img":"images/Aspirated_velar_affricate.png","ipa":"k͡xʰ","syl":true,"snd":"audio/Voiceless_velar_affricate.ogg","sp":{"SOT":"kga"},"words":[{"w":"kgale","hl":"kga","lang":"Sesotho","gloss":"long ago","audio":"audio/words/kgale.mp3","src":"R"}]},{"m":"Affricate","p":"Lateral","v":"voiceless","img":"images/Aspirated_lateral_affricate.png","ipa":"t͡ɬʰ","syl":true,"snd":"audio/cues/Aspirated_lateral_affricate_a.mp3","sp":{"SOT":"tlha","TSO":"tlha"},"words":[{"w":"tlhapi","hl":"tlha","lang":"Sesotho","gloss":"fish","audio":"audio/words/tlhapi.mp3","src":"R"}]},{"m":"Affricate","p":"Lateral","v":"voiced","img":"images/Voiced_lateral_affricate.png","ipa":"d͡ɮ","syl":true,"snd":null,"sp":{"TSO":"dla"},"words":[]},{"m":"Approximant","p":"Bilabial","v":"voiced","img":"images/Voiced_labial–velar_approximant.png","ipa":"w","syl":true,"snd":"audio/cues/Labial_velar_approximant_a.mp3","sp":{"NGU":"wa","SOT":"wa","TSO":"wa","VEN":"wa"},"words":[{"w":"ukuwa","hl":"wa","lang":"isiZulu","gloss":"fall","audio":"audio/words/ukuwa.mp3","src":"R"},{"w":"ho wa","hl":"wa","lang":"Sesotho","gloss":"fall","audio":"audio/words/wa_st.mp3","src":"R"}]},{"m":"Approximant","p":"Palatal","v":"voiced","img":"images/Voiced_palatal_approximant.png","ipa":"j","syl":true,"snd":"audio/cues/Palatal_approximant_a.mp3","sp":{"NGU":"ya","SOT":"ya","TSO":"ya","VEN":"ya"},"words":[{"w":"ho ya","hl":"ya","lang":"Sesotho","gloss":"go","audio":"audio/words/ya_st.mp3","src":"R"}]},{"m":"Approximant","p":"Lateral","v":"voiced","img":"images/Voiced_lateral_approximant.png","ipa":"l","syl":true,"snd":"audio/cues/Lateral_approximant_a.mp3","sp":{"NGU":"la","SOT":"la","TSO":"la"},"words":[{"w":"lala","hl":"la","lang":"isiZulu","gloss":"sleep","audio":"audio/words/lala.mp3","src":"R"},{"w":"lelapa","hl":"la","lang":"Sesotho","gloss":"family","audio":"audio/words/lelapa.mp3","src":"R"}]},{"m":"Trill","p":"Alveolar","v":"voiced","img":"images/Voiced_alveolar_trill.png","ipa":"r","syl":true,"snd":"audio/cues/Alveolar_trill_a.mp3","sp":{"NGU":"ra","SOT":"ra","TSO":"ra","VEN":"ra"},"words":[{"w":"rara","hl":"ra","lang":"Sesotho","gloss":"be entangled","audio":"audio/words/rara.mp3","src":"R"}]},{"m":"Tap or Flap","p":"Retroflex","v":"voiced","img":"images/Voiced_retroflex_tap.png","ipa":"ɽ","syl":true,"snd":"audio/cues/Retroflex_tap_a.mp3","sp":{"VEN":"la"},"words":[]},{"m":"Aspirated clicks","p":"Bilabial","v":"voiceless","img":"images/Bilabial click.png","ipa":"ʘʰ","syl":true,"snd":"audio/Bilabial_click.mp3","sp":{},"words":[]},{"m":"Aspirated clicks","p":"Dental","v":"voiceless","img":"images/Voiceless_dental_click.png","ipa":"ǀʰ","syl":true,"snd":"audio/words/cha.mp3","sp":{"NGU":"cha"},"words":[{"w":"cha","hl":"cha","lang":"isiZulu","gloss":"no","audio":"audio/words/cha.mp3","src":"R"}]},{"m":"Aspirated clicks","p":"Alveolar","v":"voiceless","img":"images/Voiceless_alveolar_click.png","ipa":"ǃʰ","syl":true,"snd":"audio/cues/Aspirated_alveolar_click_a.mp3","sp":{"NGU":"qha"},"words":[{"w":"qhaqha","hl":"qha","lang":"isiZulu","gloss":"dismantle","audio":"audio/words/qhaqha.mp3","src":"R"}]},{"m":"Aspirated clicks","p":"Palatal","v":"voiceless","img":"images/Palatal_Click.png","ipa":"ǂʰ","syl":true,"snd":"audio/Palatal_click.ogg","sp":{},"words":[]},{"m":"Aspirated clicks","p":"Lateral","v":"voiceless","img":"images/Voiceless_lateral_click.png","ipa":"ǁʰ","syl":true,"snd":"audio/cues/Aspirated_lateral_click_a.mp3","sp":{"NGU":"xha"},"words":[]},{"m":"Nasal","p":"Bilabial","v":"voiced","img":"images/Voiced_bilabial_nasal.png","ipa":"m","syl":true,"snd":"audio/cues/Voiced_bilabial_nasal_a.mp3","sp":{"NGU":"ma","SOT":"ma","TSO":"ma","VEN":"ma"},"words":[{"w":"mama","hl":"ma","lang":"isiZulu, Sesotho","gloss":"mother","audio":"audio/words/mama.mp3","src":"R"}]},{"m":"Nasal","p":"Dental","v":"voiced","img":"images/Voiced_dental_nasal.png","ipa":"n̪","syl":true,"snd":"audio/cues/Voiced_dental_nasal_a.mp3","sp":{"VEN":"ṋa"},"words":[]},{"m":"Nasal","p":"Alveolar","v":"voiced","img":"images/Voiced_alveolar_nasal.png","ipa":"n","syl":true,"snd":"audio/cues/Voiced_alveolar_nasal_a.mp3","sp":{"NGU":"na","SOT":"na","TSO":"na","VEN":"na"},"words":[{"w":"nana","hl":"na","lang":"isiXhosa","gloss":"child","audio":"audio/words/nana.mp3","src":"R"},{"w":"naha","hl":"na","lang":"Sesotho","gloss":"country","audio":"audio/words/naha.mp3","src":"R"}]},{"m":"Nasal","p":"Palatal","v":"voiced","img":"images/Voiced_palatal_nasal.png","ipa":"ɲ","syl":true,"snd":"audio/cues/Voiced_palatal_nasal_a.mp3","sp":{"NGU":"nya","SOT":"nya","TSO":"nya","VEN":"nya"},"words":[{"w":"nyanya","hl":"nya","lang":"isiZulu","gloss":"loathe","audio":"audio/words/nyanya.mp3","src":"R"},{"w":"nyala","hl":"nya","lang":"Sesotho","gloss":"marry","audio":"audio/words/nyala.mp3","src":"R"}]},{"m":"Nasal","p":"Velar","v":"voiced","img":"images/Voiced_velar_nasal.png","ipa":"ŋ","syl":true,"snd":"audio/cues/Voiced_velar_nasal_a.mp3","sp":{"NGU":"ng'a","SOT":"nga","TSO":"n'a","VEN":"ṅa"},"words":[{"w":"ngaka","hl":"nga","lang":"Sesotho","gloss":"doctor","audio":"audio/words/ngaka.mp3","src":"R"}]},{"m":"Syllabic Nasal","p":"Bilabial","v":"voiced","img":"images/Syllabic_bilabial_nasal.png","ipa":"m̩","syl":false,"snd":"audio/cues/Syllabic_bilabial_nasal.mp3","sp":{"SOT":"mma"},"words":[{"w":"mme","hl":"m","lang":"Sesotho","gloss":"mother","audio":"audio/words/mme.mp3","src":"R"}]},{"m":"Syllabic Nasal","p":"Alveolar","v":"voiced","img":"images/Syllabic_alveolar_nasal.png","ipa":"n̩","syl":false,"snd":"audio/cues/Syllabic_alveolar_nasal.mp3","sp":{"SOT":"nna"},"words":[{"w":"nna","hl":"n","lang":"Sesotho","gloss":"I, me","audio":"audio/words/nna.mp3","src":"R"}]},{"m":"Syllabic Nasal","p":"Velar","v":"voiced","img":"images/Syllabic_palatal_nasal.png","ipa":"ŋ̍","syl":false,"snd":null,"sp":{"SOT":"ng"},"words":[{"w":"emang","hl":"ng","lang":"Sesotho","gloss":"stand (all of you)","audio":"audio/words/emang.mp3","src":"R"}]},{"m":"Syllabic Approximants & Trills","p":"Alveolar","v":"voiced","img":"images/Syllabic_alveolar_trill.png","ipa":"r̩","syl":false,"snd":"audio/cues/Alveolar_syllabic_trill_a.mp3","sp":{"SOT":"rra"},"words":[{"w":"rra","hl":"rr","lang":"Sesotho","gloss":"father","audio":"audio/words/rra.mp3","src":"R"}]},{"m":"Syllabic Approximants & Trills","p":"Lateral","v":"voiced","img":"images/Syllabic_lateral_approximant.png","ipa":"l̩","syl":false,"snd":"audio/cues/Syllabic_lateral.mp3","sp":{"SOT":"lla"},"words":[{"w":"lla","hl":"l","lang":"Sesotho","gloss":"cry","audio":"audio/words/lla.mp3","src":"R"}]},{"m":"Ejective affricates","p":"Alveolar","v":"voiceless","img":null,"ipa":"tsʼ","syl":true,"snd":"audio/cues/Ejective_alveolar_affricate_a.mp3","sp":{"NGU":"tsa","SOT":"tsa","TSO":"tsa","VEN":"tsa"},"words":[{"w":"tsatsa","hl":"tsa","lang":"siSwati","gloss":"take","audio":"audio/words/tsatsa.mp3","src":"R"},{"w":"tsamaya","hl":"tsa","lang":"Sesotho","gloss":"walk","audio":"audio/words/tsamaya.mp3","src":"R"}]},{"m":"Ejective affricates","p":"Post-alveolar","v":"voiceless","img":null,"ipa":"t͡ʃʼ","syl":true,"snd":"audio/cues/Ejective_post-alveolar_affricate_a.mp3","sp":{"NGU":"tsha","SOT":"tja","TSO":"ca"},"words":[{"w":"tshala","hl":"tsha","lang":"isiZulu","gloss":"plant","audio":"audio/words/tshala.mp3","src":"R"},{"w":"intsha","hl":"tsha","lang":"isiZulu","gloss":"youth","audio":"audio/words/intsha.mp3","src":"R"}]},{"m":"Ejective affricates","p":"Velar","v":"voiceless","img":null,"ipa":"k͡xʼ","syl":true,"snd":"audio/cues/kla_v1.mp3","sp":{"NGU":"kla"},"words":[]},{"m":"Ejective affricates","p":"Lateral","v":"voiceless","img":null,"ipa":"t͡ɬʼ","syl":true,"snd":"audio/cues/Ejective_lateral_affricate_a.mp3","sp":{"SOT":"tla"},"words":[{"w":"tlala","hl":"tla","lang":"Sesotho","gloss":"hunger","audio":"audio/words/tlala.mp3","src":"R"}]},{"m":"Clicks","p":"Dental","v":"voiceless","img":"images/Plain_dental_click.png","ipa":"ǀ","syl":true,"snd":"audio/cues/Dental_click_a.mp3","sp":{"NGU":"ca"},"words":[]},{"m":"Clicks","p":"Dental","v":"voiced","img":null,"ipa":"ᶢǀ","syl":true,"snd":"audio/cues/Voiced_dental_click_a.mp3","sp":{"NGU":"gca"},"words":[]},{"m":"Clicks","p":"Alveolar","v":"voiceless","img":"images/Plain_alveolar_click.png","ipa":"ǃ","syl":true,"snd":"audio/cues/Alveolar_click_a.mp3","sp":{"NGU":"qa"},"words":[]},{"m":"Clicks","p":"Alveolar","v":"voiced","img":null,"ipa":"ᶢǃ","syl":true,"snd":"audio/cues/Voiced_alveolar_click_a.mp3","sp":{"NGU":"gqa"},"words":[]},{"m":"Clicks","p":"Lateral","v":"voiceless","img":"images/Plain_lateral_click.png","ipa":"ǁ","syl":true,"snd":"audio/cues/Lateral_click_a.mp3","sp":{"NGU":"xa"},"words":[{"w":"ukuxabana","hl":"xa","lang":"isiZulu","gloss":"quarrel","audio":"audio/words/ukuxabana.mp3","src":"R"}]},{"m":"Clicks","p":"Lateral","v":"voiced","img":null,"ipa":"ᶢǁ","syl":true,"snd":"audio/cues/Voiced_lateral_click_a.mp3","sp":{"NGU":"gxa"},"words":[]}]</script>
         </div><!-- end chart-section -->
         
         <!-- Audio elements container -->
